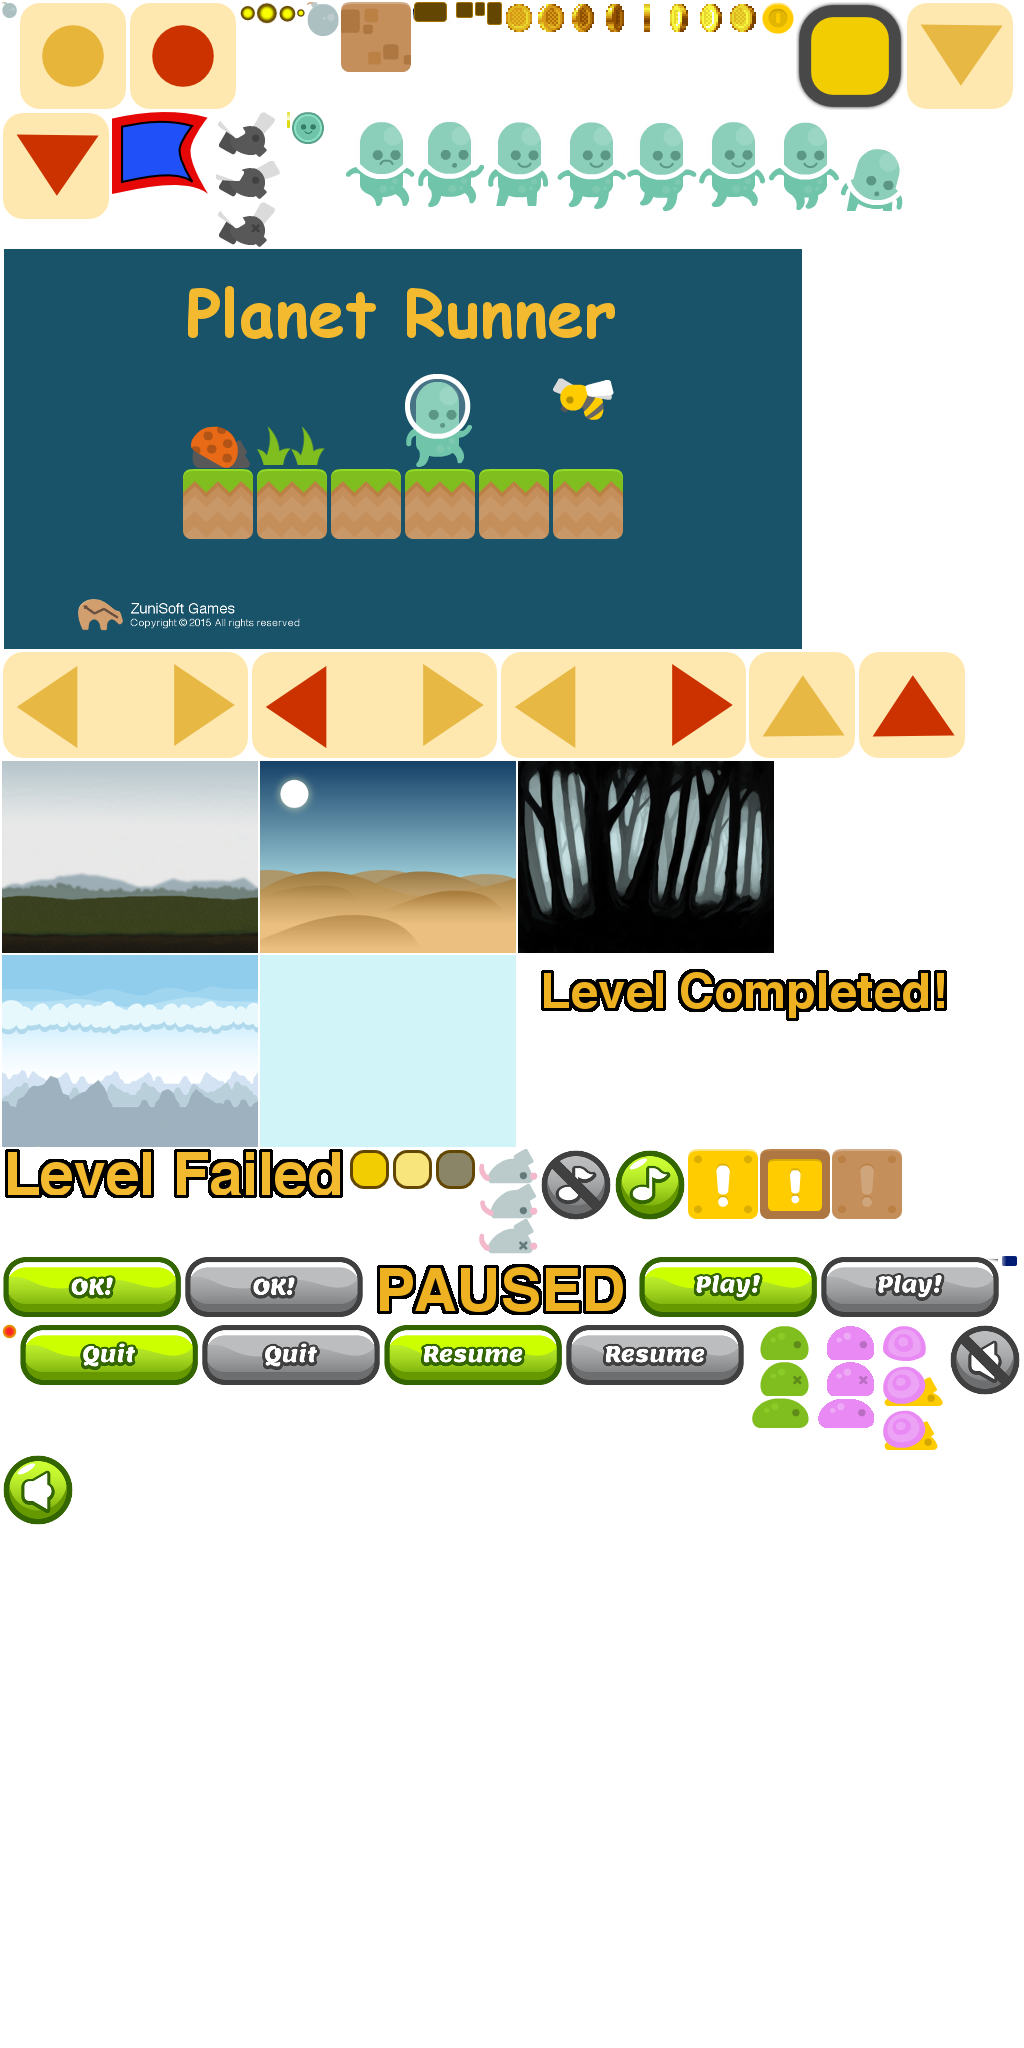
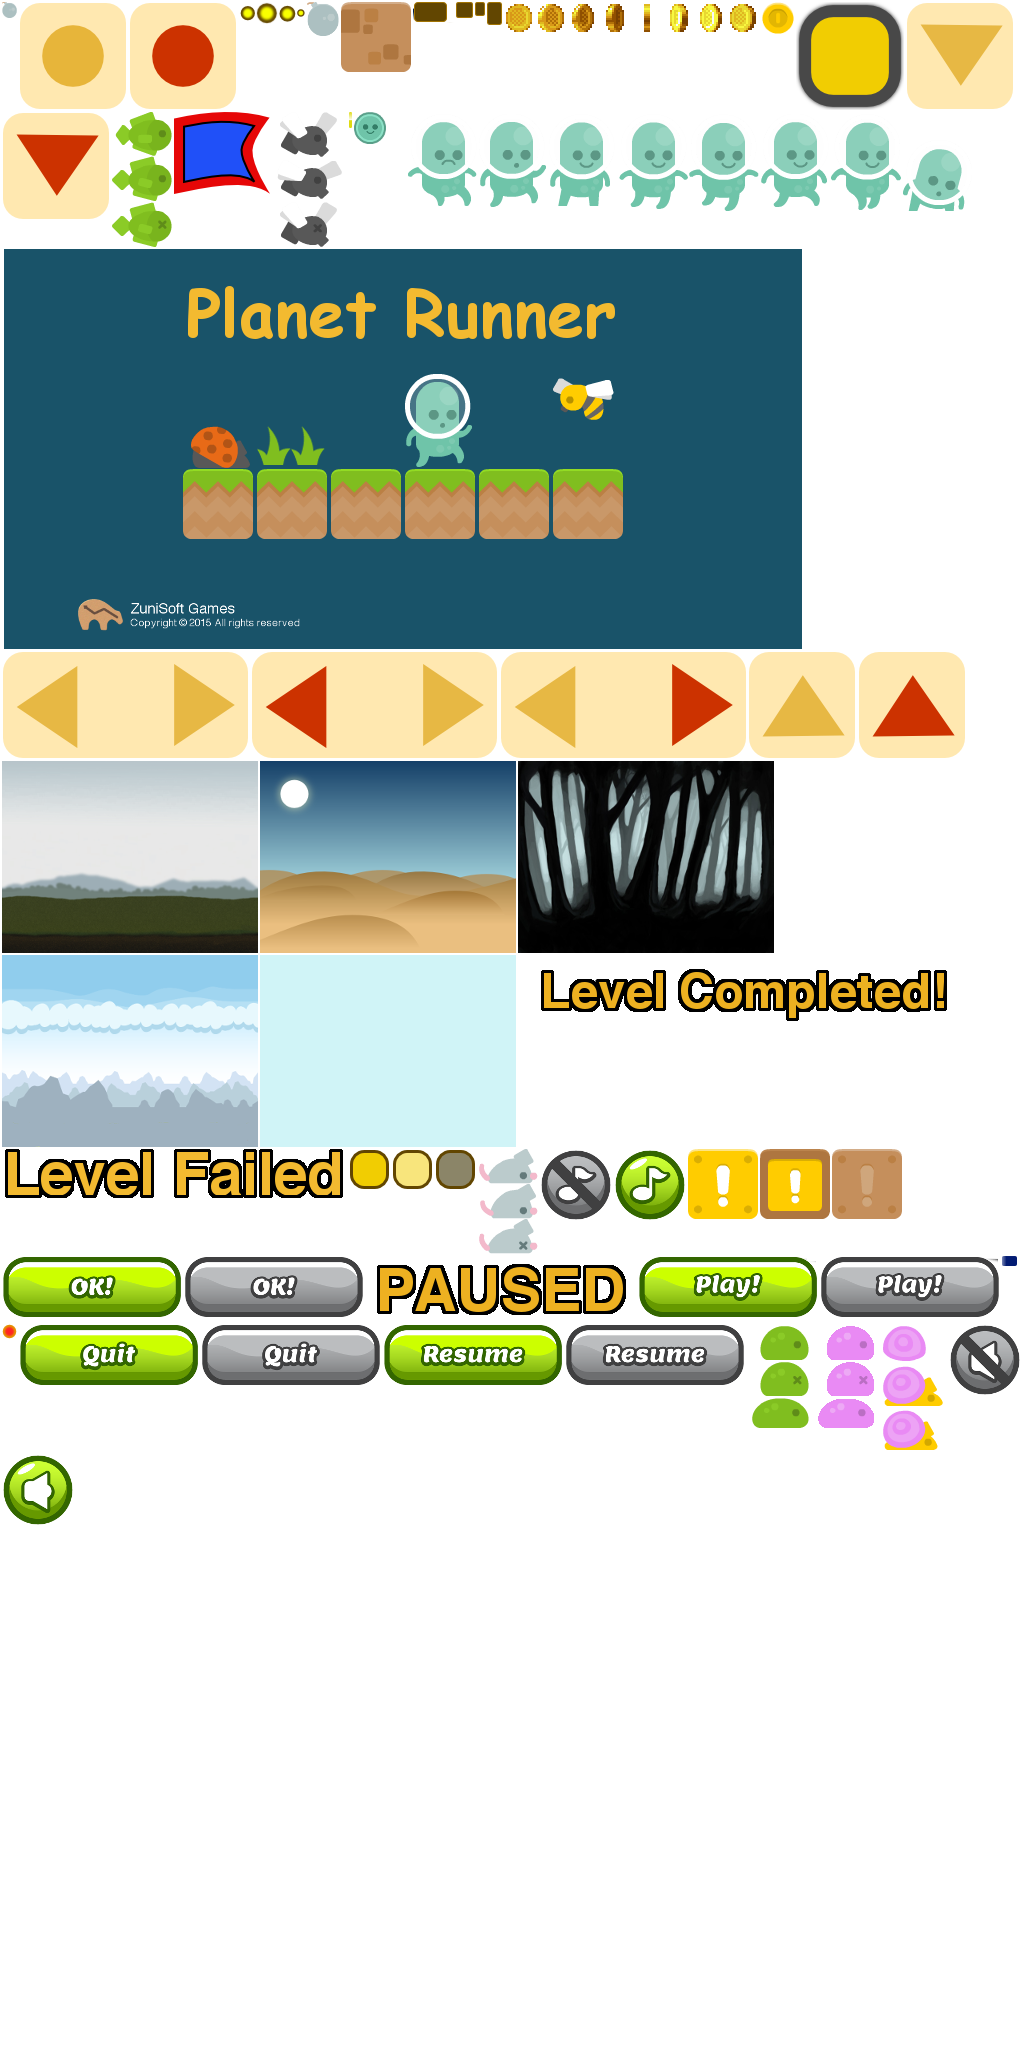
Added green fish enemy and more refactoring.

Changed region(s): [[0.0938, 0.0312, 0.9375, 0.125]]

diff --git a/core/src/com/zunisoft/planetrunner/enemies/Enemy5.java b/core/src/com/zunisoft/planetrunner/enemies/Enemy5.java
@@ -6,27 +6,29 @@ import com.zunisoft.planetrunner.actors.Bomb;
 import com.zunisoft.planetrunner.actors.Hero;
 import com.zunisoft.planetrunner.PlanetRunner;
 
-// THIS is the level 2 boss
+// THIS is the green fish enemy
 public class Enemy5 extends Enemy {
 
 	// States
-	protected static final int WALK = 1;
-	private static final int JUMP = 2;
-	private static final int ATTACKED = 3;
-	private static final int ATTACK_HERO = 4;
-	private static final int HIT_BY_BULLET = 5;
-	private static final int DIE = 6;
+	protected static final int SWIM = 1;
+	private static final int ATTACKED = 2;
+	private static final int ATTACK_HERO = 3;
+	private static final int HIT_BY_BULLET = 4;
+	private static final int DIE = 5;
 
 	protected boolean isMoveRight;
 	protected float speed = 90;  //px per sec
 	protected int state = -1;
 
 	// Enemy frames
-	protected int walkFrames[] = new int[]{0,1,2,3,2,1};
-	protected int attackedFrames[] = new int[]{4,4,4};
-	protected int attackHeroFrames[] = new int[]{4,4,4,4};
-	protected int hitByBombFrames[] = new int[]{4,4,4,4};
-	protected int dieFrame = 4;
+	protected int swimFrames[] = new int[]{0,1};
+	protected int attackedFrames[] = new int[]{2,2,2};
+	protected int attackHeroFrames[] = new int[]{2,2,2,2};
+	protected int hitByBombFrames[] = new int[]{2,2,2,2};
+	protected int dieFrame = 2;
+
+	// Enemy is in water
+	protected boolean inWater = true;
 
 	private float waitTime; // Wait time after attacked by bomb
 
@@ -36,8 +38,8 @@ public class Enemy5 extends Enemy {
 
 	public Enemy5() {
 		// Animation clip
-		clip = new Clip(PlanetRunner.atlas.findRegion("t_rex"), 146, 91);
-		setSize(72, 72);
+		clip = new Clip(PlanetRunner.atlas.findRegion("fish_green"), 60, 45);
+		setSize(60, 45);
 				
 		setClip(clip);
 		clip.setFPS(12);
@@ -54,8 +56,8 @@ public class Enemy5 extends Enemy {
 			}
 		});
 
-		health = 15;
-		score = 400;
+		noGravity = true;
+		score = 300;
 	}
 
 	@Override
@@ -63,9 +65,9 @@ public class Enemy5 extends Enemy {
 		
 		if(!hasDied) {
 			if(waitTime <= 0) {
-				// Walk
-				if(!isInAir()) {
-					chState(WALK);
+				// Swim (only state for movement)
+				if(isInWater()) {
+					chState(SWIM);
 					
 					// Set speed & flip based on direction
 					if(isMoveRight) {
@@ -76,9 +78,6 @@ public class Enemy5 extends Enemy {
 						setVX(-speed);
 					}
 					
-				} else {
-					// In air
-					chState(JUMP);
 				}
 			}
 			// Consume the wait time
@@ -169,10 +168,19 @@ public class Enemy5 extends Enemy {
 	// Die
 	@Override
 	protected void die() {
+		noGravity = false;
 		chState(DIE);
 		super.die();
 	}
 
+
+	public boolean isInWater() {
+		return inWater;
+	}
+
+	public void setInWater(boolean inWater) {
+		this.inWater = inWater;
+	}
 
 	protected void chState(int newstate) {
 		chState(newstate,false);
@@ -196,11 +204,8 @@ public class Enemy5 extends Enemy {
 			
 		// Assign the clip frames based on state
 		switch (state) {
-		case WALK:
-			clip.playFrames(walkFrames, true);
-			break;
-		case JUMP:
-			clip.singleFrame(0);
+		case SWIM:
+			clip.playFrames(swimFrames, true);
 			break;
 		case ATTACKED:
 			clip.playFrames(attackedFrames, false);

diff --git a/core/src/com/zunisoft/planetrunner/enemies/Enemy3.java b/core/src/com/zunisoft/planetrunner/enemies/Enemy3.java
@@ -10,13 +10,11 @@ import com.zunisoft.planetrunner.PlanetRunner;
 public class Enemy3 extends Enemy {
 
 	// States
-	protected static final int WALK = 1;
-	private static final int JUMP = 2;
-	private static final int ATTACKED = 3;
-	private static final int ATTACK_HERO = 4;
-	private static final int HIT_BY_BULLET = 5;
-	private static final int DIE = 6;
-	private static final int FLY = 7;
+	protected static final int FLY = 1;
+	private static final int ATTACKED = 2;
+	private static final int ATTACK_HERO = 3;
+	private static final int HIT_BY_BULLET = 4;
+	private static final int DIE = 5;
 
 	protected boolean isMoveRight;
 	protected float speed = 175;  //px per sec
@@ -24,7 +22,6 @@ public class Enemy3 extends Enemy {
 
 	// Enemy frames
 	protected int flyFrames[] = new int[]{0,1};
-	protected int walkFrames[] = new int[]{0,1};
 	protected int attackedFrames[] = new int[]{2,2,2};
 	protected int attackHeroFrames[] = new int[]{2,2,2,2};
 	protected int hitByBombFrames[] = new int[]{2,2,2,2};
@@ -65,7 +62,7 @@ public class Enemy3 extends Enemy {
 		
 		if(!hasDied) {
 			if(waitTime <= 0) {
-				// Flying
+				// Flying (only state for movement)
 				if(isInAir()) {
 					chState(FLY);
 					
@@ -201,12 +198,6 @@ public class Enemy3 extends Enemy {
 		switch (state) {
 		case FLY:
 			clip.playFrames(flyFrames, true);
-			break;
-		case WALK:
-			clip.playFrames(walkFrames, true);
-			break;
-		case JUMP:
-			clip.singleFrame(0);
 			break;
 		case ATTACKED:
 			clip.playFrames(attackedFrames, false);

diff --git a/core/src/com/zunisoft/planetrunner/actors/Hero.java b/core/src/com/zunisoft/planetrunner/actors/Hero.java
@@ -76,7 +76,6 @@ public class Hero extends Entity {
 	// Hero is not in water
 	protected boolean inWater=false;
 	
-	
 	public Hero(Level level) {
 		this.level = level;
 		
